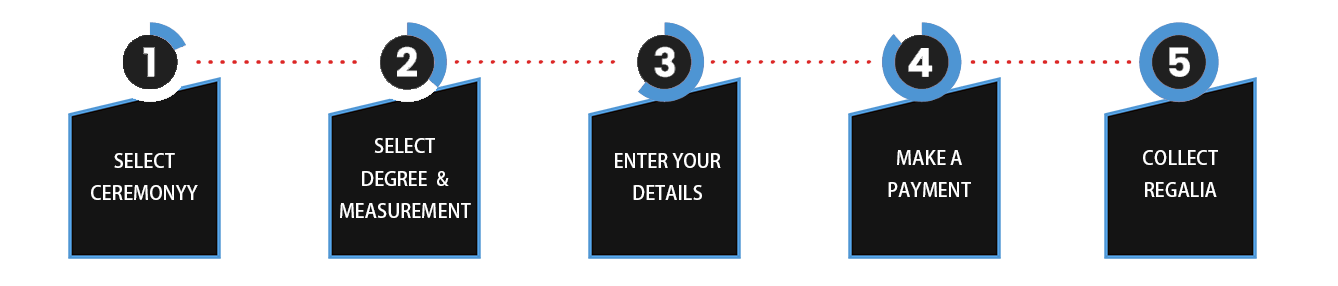
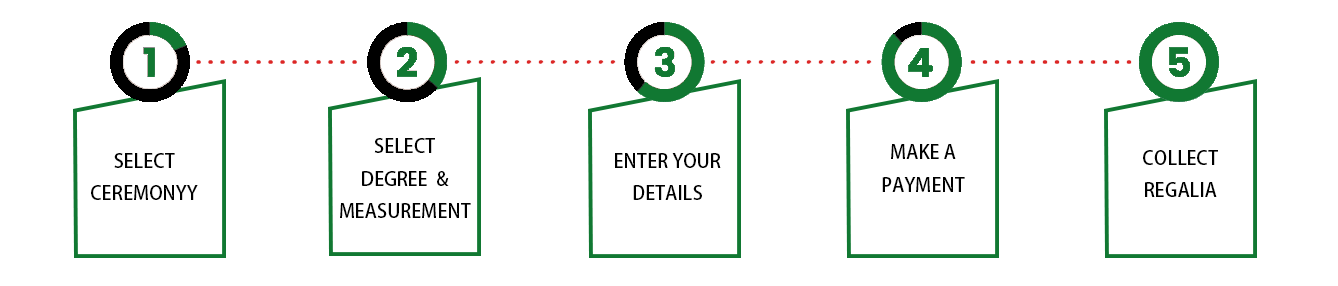
20250916 hire process

diff --git a/src/components/Hireprocess.jsx b/src/components/Hireprocess.jsx
@@ -1,5 +1,19 @@
-// src/components/Hireprocess.jsx
 import * as React from "react";
+import "./Hireprocess.css";
+
+export default function Hireprocess() {
+  return (
+    <section>
+      <h2 className="HireDressSetTitle">Quick Hiring Process</h2>
+      <div className="HireDressSetImg">
+        <img src="/process.png" alt="hire process" />
+      </div>
+    </section>
+  );
+}
+{
+  /*
+
 import PropTypes from "prop-types";
 import { Box, Typography } from "@mui/material";
 import { styled } from "@mui/material/styles";
@@ -17,20 +31,13 @@ const ChevronStep = styled("div")(({ theme }) => ({
   justifyContent: "center",
   lineHeight: 1.2,
   fontSize: 14,
-  // 斜角/箭头
+
   clipPath:
     "polygon(0% 0%, calc(100% - 16px) 0, 100% 50%, calc(100% - 16px) 100%, 0% 100%, 12px 50%)",
   overflow: "hidden",
   userSelect: "none",
 }));
 
-/**
- * Quick Hiring Process
- * props:
- * - active: number  当前高亮步骤（从 0 开始；不传则不高亮）
- * - title: string   左侧标题
- * - steps: string[] 步骤文案；可用 \n 手动换行
- */
 export default function Hireprocess({
   active = -1,
   title = "Quick Hiring Process",
@@ -49,10 +56,9 @@ export default function Hireprocess({
           display: "flex",
           alignItems: "center",
           gap: 2,
-          flexWrap: { xs: "wrap", sm: "nowrap" }, // 小屏可换行
+          flexWrap: { xs: "wrap", sm: "nowrap" },
         }}
       >
-        {/* 左侧白边标题 */}
         <Box
           sx={{
             border: "2px solid #fff",
@@ -68,7 +74,6 @@ export default function Hireprocess({
           {title}
         </Box>
 
-        {/* 右侧步骤条 */}
         <Box
           role="list"
           aria-label="Hiring process steps"
@@ -99,9 +104,11 @@ export default function Hireprocess({
   );
 }
 
-// ✅ PropTypes 校验（解决 ESLint: react/prop-types）
 Hireprocess.propTypes = {
   active: PropTypes.number,
   title: PropTypes.string,
   steps: PropTypes.arrayOf(PropTypes.string),
 };
+
+*/
+}

diff --git a/src/components/Hireprocess.css b/src/components/Hireprocess.css
@@ -1,22 +1,18 @@
-.hireprocess {
-  background-color: #ffffff;
-  margin: 0;
-  padding: 24px 0;
-}
-
-.process_title {
-  color: black;
+.HireDressSetTitle {
+  margin-bottom: 20px;
   margin-left: 130px;
   font-weight: bolder;
   font-size: 30px;
+  padding: 24px 0;
 }
 
-.process_img {
-  width: 1000px;
-  margin: 0 auto;
+.HireDressSetImg {
+  display: flex;
+  justify-content: center;
+  align-items: flex-start;
+  gap: 70px;
 }
 
-.img {
-  width: 100%;
-  height: auto;
+.HireDressSetImg img {
+  width: 80%;
 }

diff --git a/src/components/BuyDressSet.css b/src/components/BuyDressSet.css
@@ -19,11 +19,10 @@
 }
 
 .BuyDressSetImg img {
-  width: 100%; /* 图片宽度跟随卡片 */
-  height: auto;
+  width: 100%;
   border-radius: 12px;
   display: block;
-  margin: 0 auto; /* 防止图片有多余间隙 */
+  margin: 0 auto;
 }
 
 .BuyDressSetImg p {
